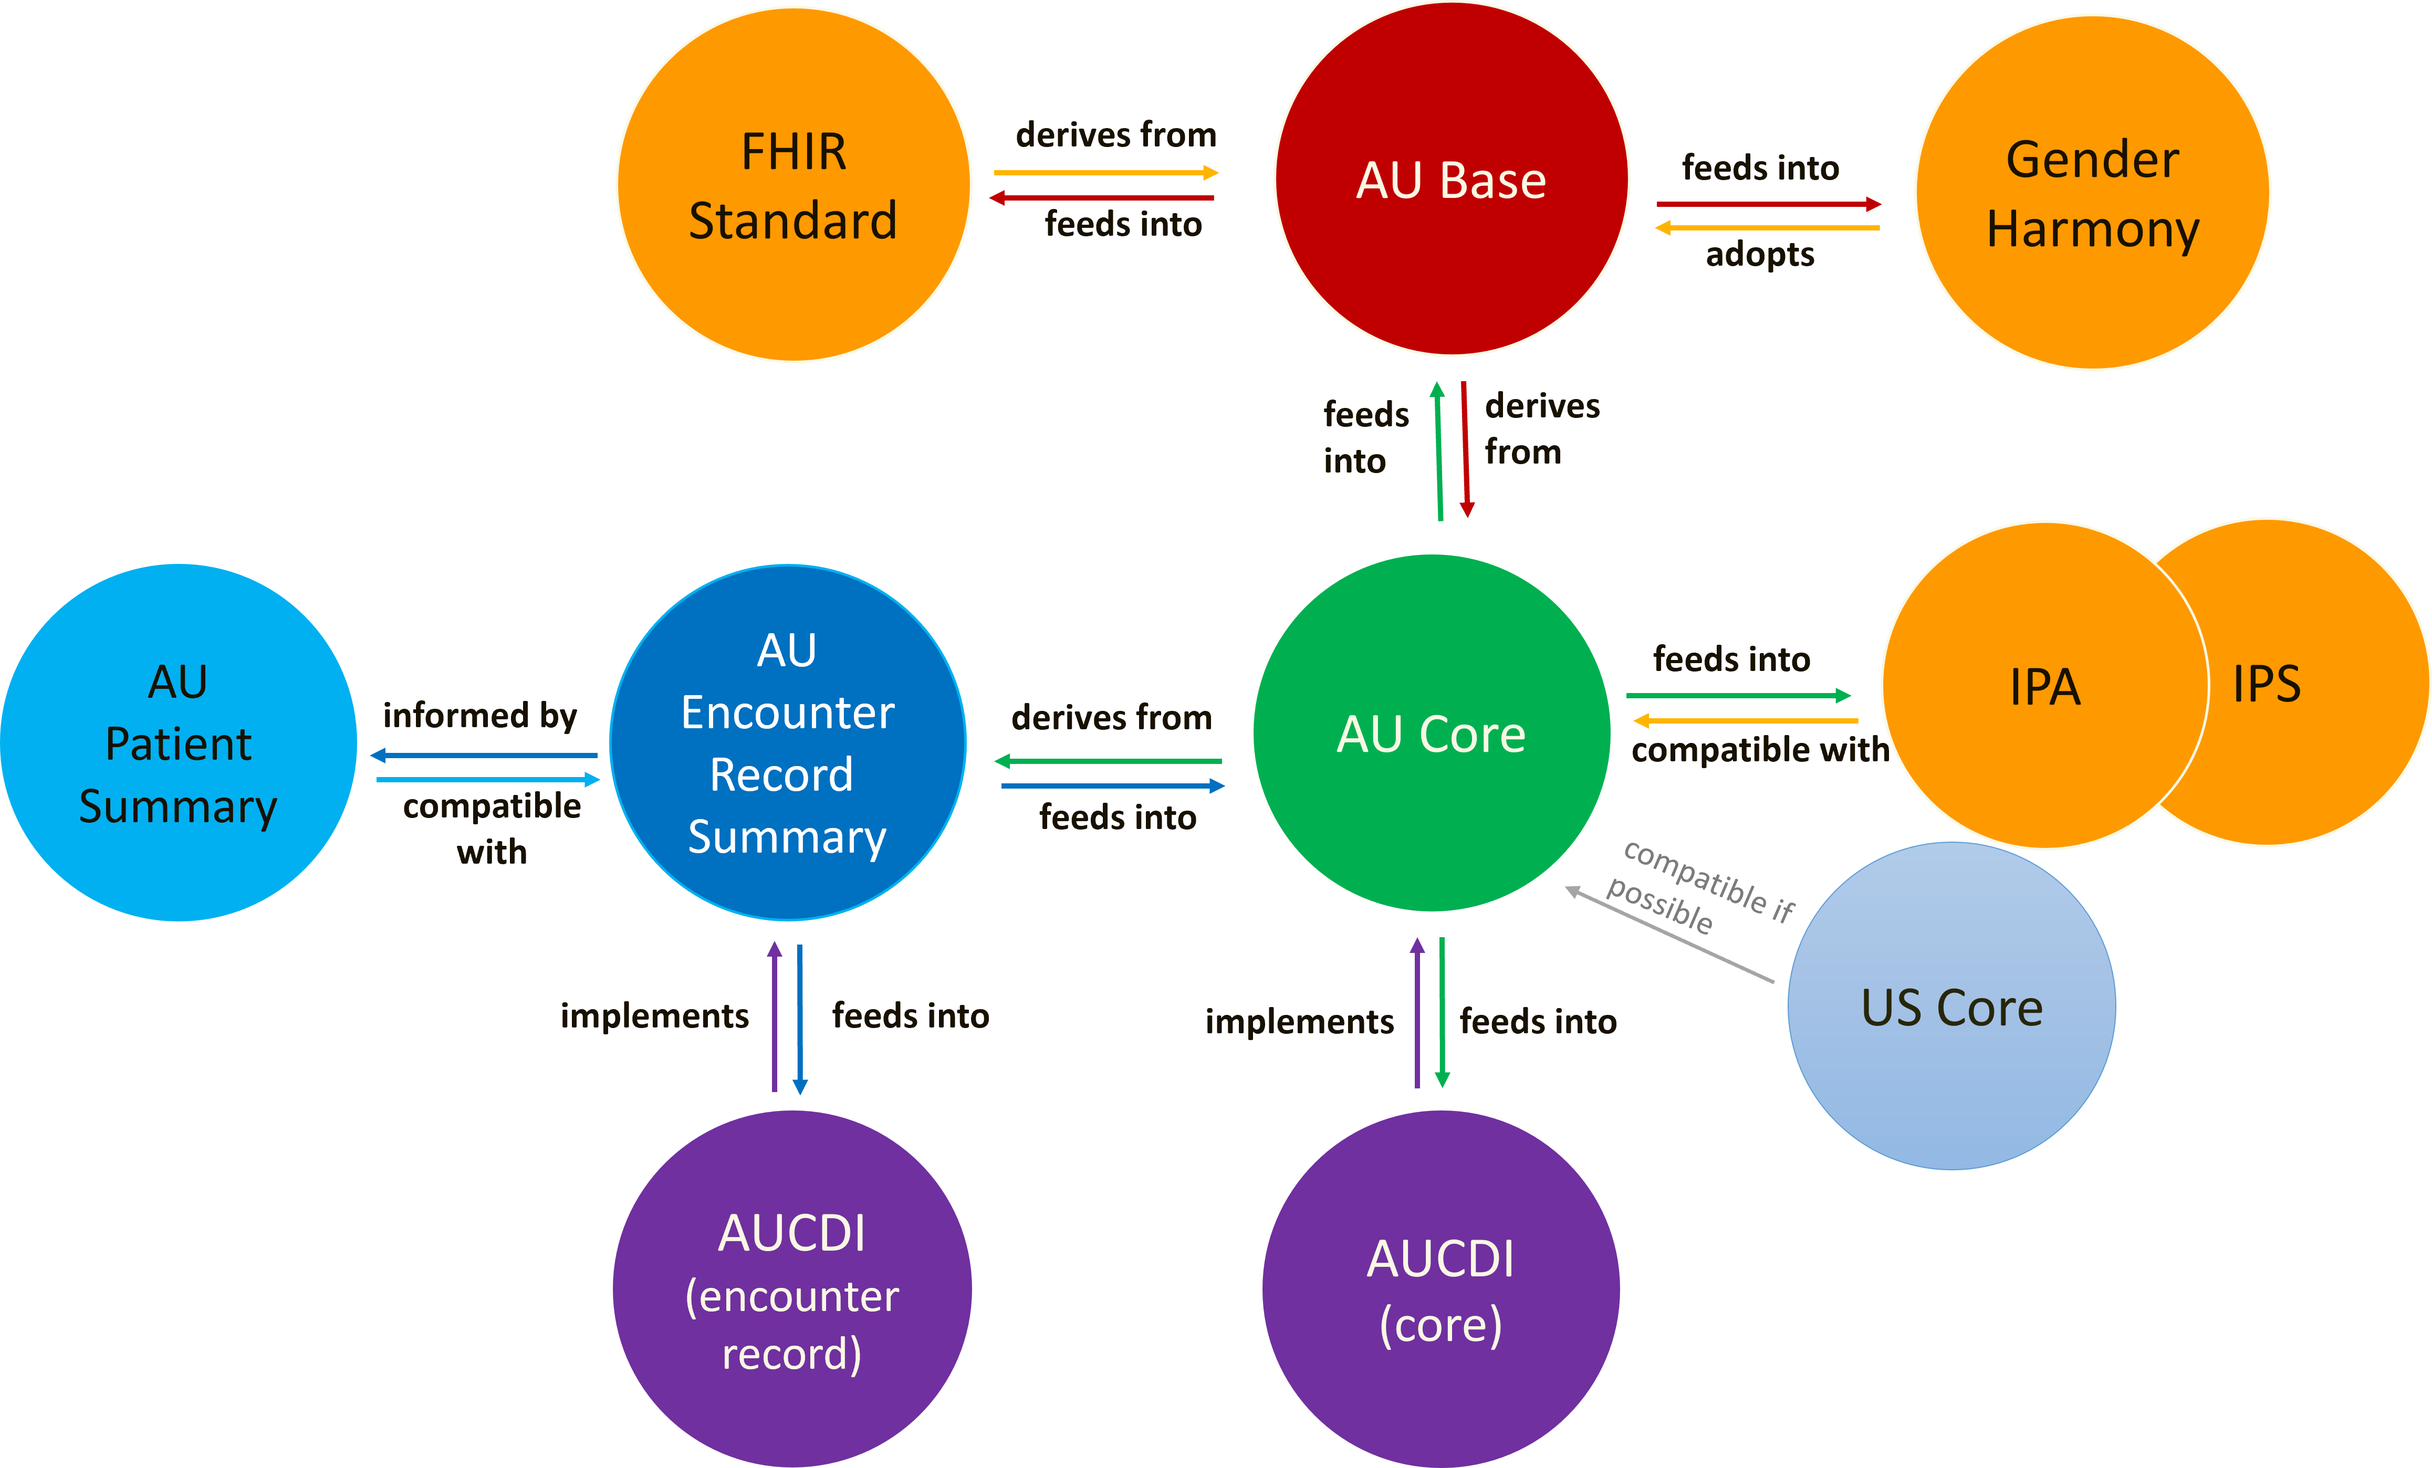
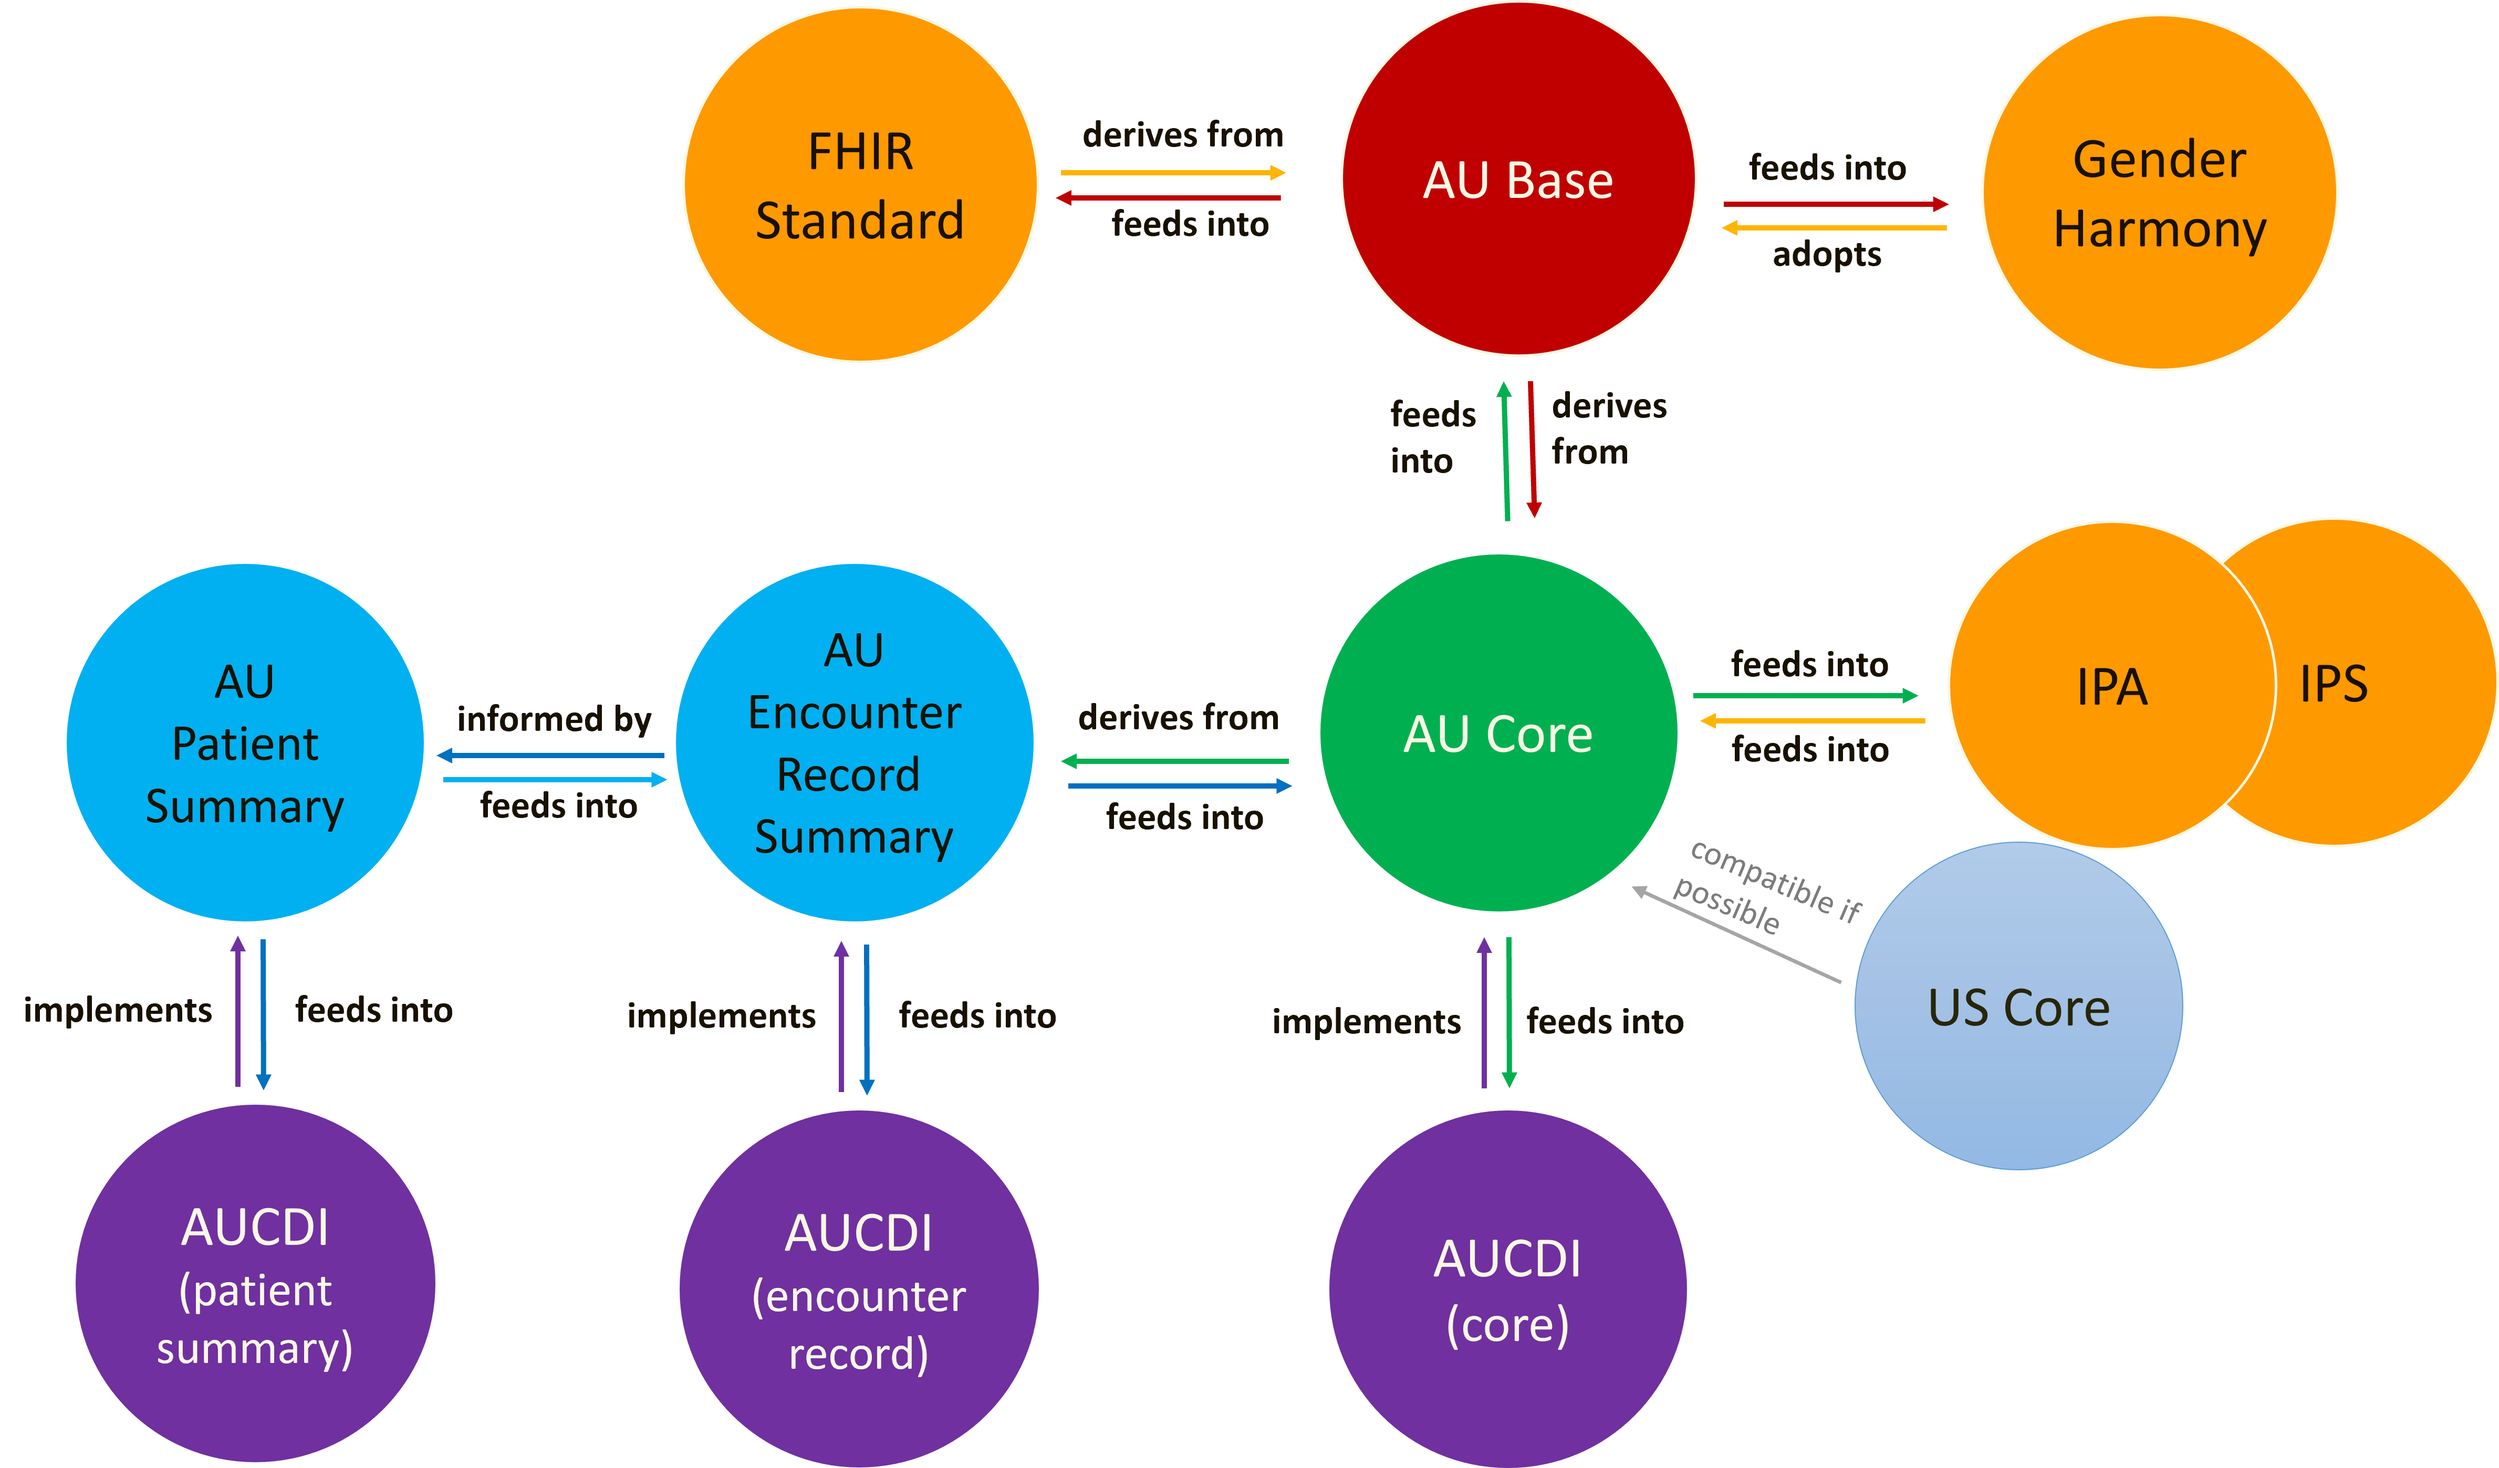
Rel pg - update diagram, add IPS/AUPS to table

diff --git a/input/pagecontent/relationship.md b/input/pagecontent/relationship.md
@@ -29,7 +29,7 @@ AU Encounter Record Summary is based on, aligns to, and leverages international 
 - [International Patient Summary 2.0.1](https://hl7.org/fhir/uv/ips/2.0.1/en/)
 - [AU Core](https://build.fhir.org/ig/hl7au/au-fhir-core/)
 
-The relationship of AU Encounter Record Summary to AUCDI and other implementation guides is shown in the figure below.
+The relationship of AU Encounter Record Summary to AUCDI and other implementation guides is shown in the figure below. Note other relationships exist and are not shown.
 
  <div> 
     <img src="context-colour.png" alt="Relationship to AUCDI and Other IGs" style="width:75%"/>
@@ -42,5 +42,7 @@ Implementation Guide |Relationship
 [AU Base](https://build.fhir.org/ig/hl7au/au-fhir-base/)|This IG defines Australian realm concepts including terminology, identifiers, and extensions. AU Encounter Record Summary uses AU Base, where available, as the basis for profiles that define the FHIR resources to be supported, and the elements, extensions, vocabularies, and value sets that SHALL be present are identified, and how they are used is defined. Where available and applicable, AU Base concepts are profiled in AU Core and inherited by AU Encounter Record Summary.
 [HL7 Cross Paradigm Implementation Guide: Gender Harmony - Sex and Gender Representation](https://hl7.org/xprod/ig/uv/gender-harmony/informative1/)|This IG provides definitive guidance on how to exchange clinical sex and gender affirming information using HL7 models. Sex and gender concepts from this IG have been reviewed for the potential for adoption in Australia. Where adopted, these concepts are included by reference in AU Base, profiled in AU Core, and inherited by AU Encounter Record Summary.
 [AU Core](https://build.fhir.org/ig/hl7au/au-fhir-core/)|This IG defines a set of conformance requirements that enforce a set of 'minimum requirements' on the local concepts from AU Base, specifying the elements, extensions, vocabularies, and value sets that SHALL be present and how they SHALL be used. AU Core also defines a data access API, specifying the conformance requirements for RESTful interactions. AU Encounter Record Summary is compliant with the profile only requirements of AU Core, e.g. AU Core conformant data can be used to generate an AU Encounter Record Summary document and AU Encounter Record Summary conformant data can be accessed by an AU Core conformant requester.
+[AU Patient Summary](https://build.fhir.org/ig/hl7au/au-fhir-ps/en/index.html)|This IG describes how to respresent in HL7 FHIR an Australian patient summary. AU Patient Summary supports the sharing of a short summary of a person's health information in Australia. AU Patient Summary is based on the International Patient Summary and adds Australian requirements based on AU Core. AU Encounter Record Summary is informed by AU Patient Summary though is not conformant to the requirements in AU Patient Summary. 
+[International Patient Summary 2.0.1](https://hl7.org/fhir/uv/ips/2.0.1/en/)|This IG describes how to represent in HL7 FHIR the International Patient Summary (IPS). An International Patient Summary (IPS) document is an electronic health record extract containing essential healthcare information about a subject of care. This IG defines a set of conformance requirements that enforce a set of 'minimum requirements' on the data and obligations on systems generating and consuming IPS documents. AU Encounter Record Summary is informed by IPS though is not conformant to the requirements in IPS.
 [International Patient Access 1.1.0](https://hl7.org/fhir/uv/ipa/STU1.1/)|This IG describes how an application acting on behalf of a patient can access information about the patient from a clinical records system using a FHIR based API. The REST API and profiles in this IG were reviewed and considered during development of AU Core and AU Encounter Record Summary. AU Encounter Record Summary is designed to be compatible with the RESTful data access in IPA, e.g. AU Encounter Record Summary conformant data and AU Encounter Record Summary documents can be accessed by an IPA conformant client.
 {:.grid}
